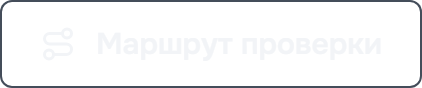
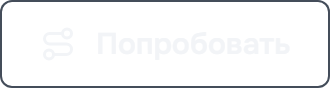
docs(readme): drop hackathon references

Changed region(s): [[0.9639, 0.0, 1.0, 1.0], [0.0, 0.8636, 0.0301, 1.0], [0.0, 0.0, 0.0301, 0.1364]]

diff --git a/README.md b/README.md
@@ -9,7 +9,7 @@
 <p align="center">
 <!-- readme:buttons -->
 <a href="#запуск"><picture><source media="(prefers-color-scheme: dark)" srcset="docs/readme/button-run.dark.png"><img src="docs/readme/button-run.light.png" width="216" height="44" alt="Запустить локально"></picture></a>
-<a href="#попробовать-за-две-минуты"><picture><source media="(prefers-color-scheme: dark)" srcset="docs/readme/button-try.dark.png"><img src="docs/readme/button-try.light.png" width="211" height="44" alt="Маршрут проверки"></picture></a>
+<a href="#попробовать-за-две-минуты"><picture><source media="(prefers-color-scheme: dark)" srcset="docs/readme/button-try.dark.png"><img src="docs/readme/button-try.light.png" width="165" height="44" alt="Попробовать"></picture></a>
 <a href="docs/README.md"><picture><source media="(prefers-color-scheme: dark)" srcset="docs/readme/button-docs.dark.png"><img src="docs/readme/button-docs.light.png" width="175" height="44" alt="Документация"></picture></a>
 <!-- /readme:buttons -->
 </p>
@@ -54,7 +54,7 @@
 <p align="center">
 <img src="docs/readme/hero-map.jpg" width="880" alt="Карта Plexus: регионы России окрашены по индексу Хансена, поверх лежит дорожный граф, выбрана Тверская область, справа её сводка: 131,50 и 8-е место из 82">
 <br>
-<sub>Локальный стенд с данными из ClickHouse, 12 ноября 2026 года. Лето, базовая сеть, выбрана Тверская область.</sub>
+<sub>Локальный запуск с данными из ClickHouse, 12 ноября 2026 года. Лето, базовая сеть, выбрана Тверская область.</sub>
 </p>
 
 > **Пропуск в данных виден как ошибка, нулевой эффект остаётся нулём.** Если ClickHouse недоступен, API отвечает 503 и не подставляет файлы. Без матриц лаборатория `/scenarios` показывает ошибку и не рисует результатов. Удаление связи, которой нет в сценарии, отклоняется. Удаление летнего парома между Хоро и Нюрбой дало Якутии 0,00 %: паром не лежит на кратчайших путях, и ни один индекс пункта не изменился.
@@ -90,7 +90,7 @@ flowchart LR
 
 ## Попробовать за две минуты
 
-Запустите стенд по разделу [«Запуск»](#запуск). Первые ответы API после старта приходят медленнее, пока данные загружаются в память.
+Запустите Plexus по разделу [«Запуск»](#запуск). Первые ответы API после старта приходят медленнее, пока данные загружаются в память.
 
 | Что сделать | Что увидите |
 | --- | --- |
@@ -98,7 +98,7 @@ flowchart LR
 | Откройте «Сценарий», затем «Дороги», выберите участок на карте и нажмите «Пересчитать индекс» | Индекс до и после, затронутые пункты и вновь изолированные жители; полный пересчёт занимает минуты |
 | Напишите в чат: «Закрой М-10 и М-11 между Москвой и Санкт-Петербургом» | По расчёту на каждый регион, через который проходят трассы, с изменением индекса; около минуты на регион |
 
-Значения первой строки сняты 12 ноября 2026 года для лета и базовой сети. Чат работает при серверной авторизации провайдера модели. Полный маршрут со сравнением регионов и денежной оценкой: [проверка на стенде](docs/for-jury.md). Соответствие пунктам кейса: [карта требований](docs/requirements-map.md).
+Значения первой строки сняты 12 ноября 2026 года для лета и базовой сети. Чат работает при серверной авторизации провайдера модели.
 
 ## Результаты
 
@@ -189,7 +189,7 @@ uv run pytest tests/unit tests/integration
 | `API_URL` | Куда Vite проксирует `/api` в разработке |
 | `PORT` | Внешний порт интерфейса в Compose, по умолчанию 8080 |
 
-Картинки этого README рисуются из токенов и знака продукта: `cd frontend && npm run readme`. Снимок карты: `npm run readme:hero` при запущенном стенде.
+Картинки этого README рисуются из токенов и знака продукта: `cd frontend && npm run readme`. Снимок карты: `npm run readme:hero` при запущенном приложении.
 
 </details>
 
@@ -209,8 +209,8 @@ uv run pytest tests/unit tests/integration
 | [Потенциальная доступность](docs/potential-accessibility.md) | Сравнение методов и полнота расписаний |
 | [Термины](docs/glossary.md) | Словарь транспортной доступности |
 | [ИИ в проекте](docs/ai-register.md) | Какие задачи решал ИИ и как проверялись результаты |
+| [Чат рядом с картой](docs/chat.md) | Агент, его инструменты и навыки |
 | [Зависимости и права](docs/dependencies.md) | Версии, лицензии и условия данных |
-| [Комплект сдачи](docs/submission/README.md) | Паспорт, презентация и речь |
 
 ## Ограничения
 
@@ -227,5 +227,5 @@ uv run pytest tests/unit tests/integration
 <picture><source media="(prefers-color-scheme: dark)" srcset="docs/readme/footer.dark.png"><img src="docs/readme/footer.light.png" width="125" height="56" alt="Plexus"></picture>
 <!-- /readme:footer -->
 <br>
-<sub>Кейс А2 «Транспорт и территории». Дорожные данные © участники OpenStreetMap, ODbL.</sub>
+<sub>Team GoatWhistle, 2026. Licensed under <a href="LICENSE">MIT</a>. Дорожные данные © участники OpenStreetMap, ODbL.</sub>
 </p>
